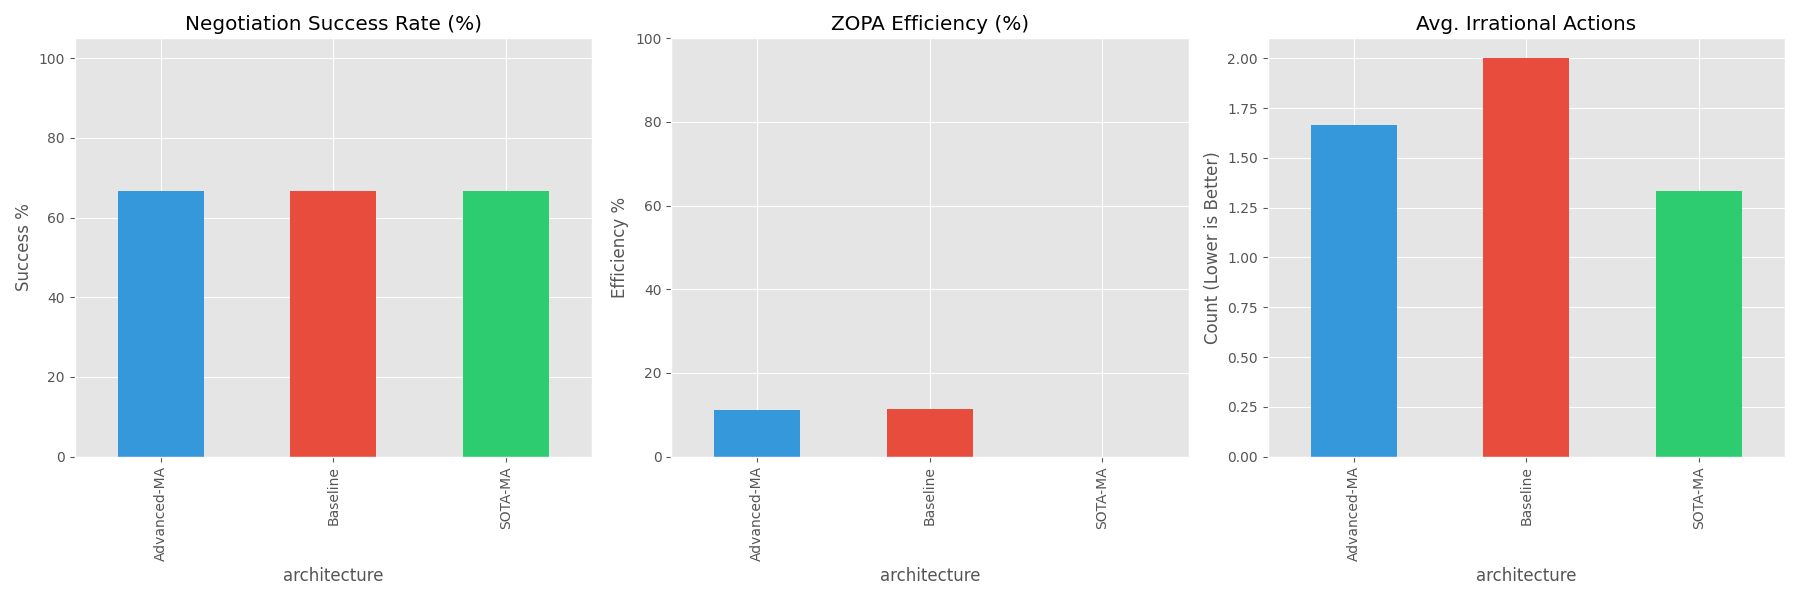
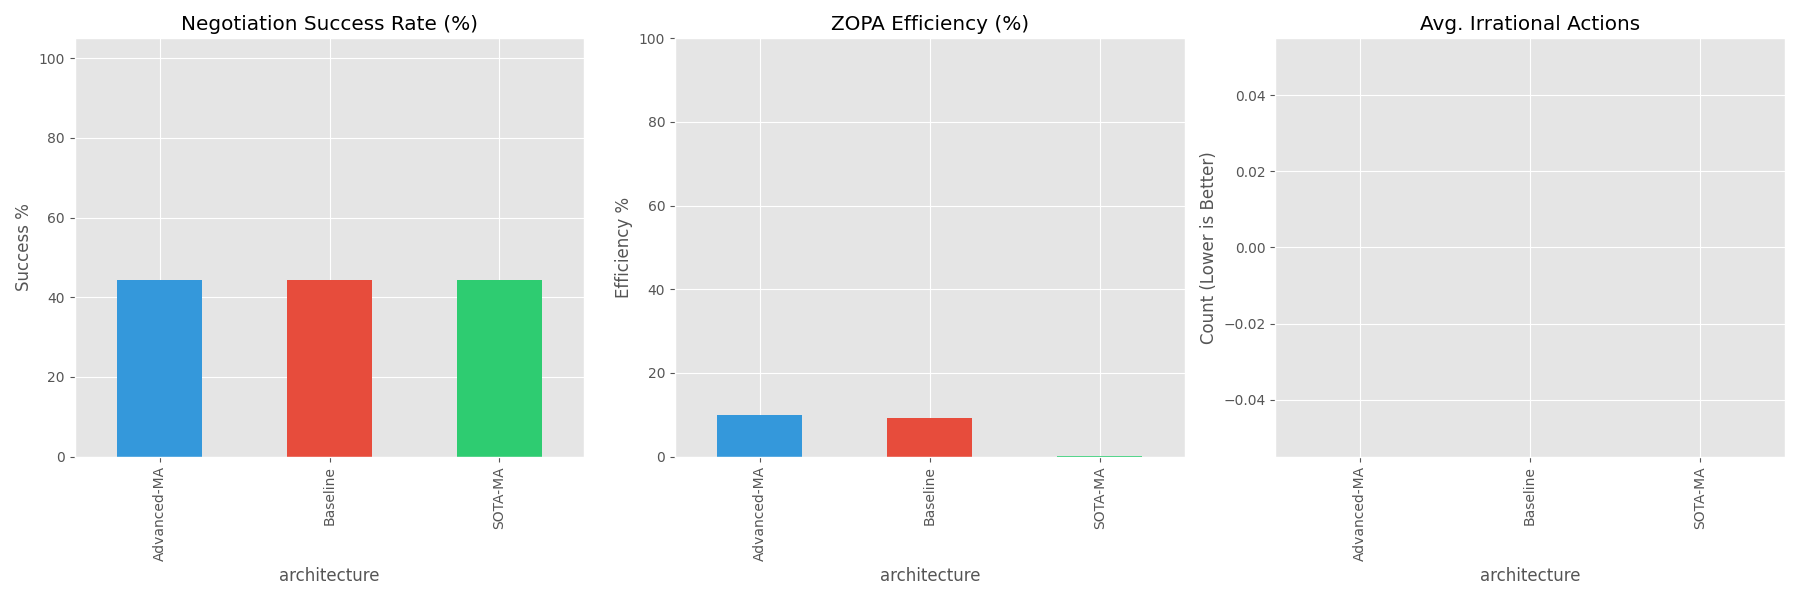
Added Adversarial and Assymmetric

diff --git a/agentic_market_dynamics.py b/agentic_market_dynamics.py
@@ -136,74 +136,86 @@ class NegotiationSimulator:
 
     def run(self, experiment_type: str = "LLM_Normal") -> Dict[str, Any]:
         budget = self.selling_price * random.uniform(0.95, 1.05)
+        observed_expiry = self.true_expiry
+        
+        # --- Restore Environment Logic ---
+        if experiment_type == "Asymmetric_Info":
+            # Buyer thinks it's fresher than it is
+            observed_expiry = self.true_expiry + random.randint(3, 7)
+        
         status, final_price = "NO_DEAL", 0.0
         
-        # Initialize history with the seller's listing price
-        self.history.append({"role": "assistant", "content": f"SELLER: I am listing this {self.product_data['product_name']} for ${self.selling_price:.2f}"})
-        last_seller_offer = self.selling_price
+        # Correct Sequencing: Always start with User if the first message is from Buyer, 
+        # or handle Assistant listing carefully. 
+        # NVIDIA/Llama requirement: user, assistant, user, assistant...
+        self.history.append({"role": "user", "content": f"System: A new {self.product_data['product_name']} is listed for ${self.selling_price:.2f}."})
 
         for rnd in range(1, MAX_ROUNDS + 1):
+            # --- Perishability Check ---
+            # If (current_round + transit) > true_expiry, the goods spoil before reaching the buyer
+            if (rnd + self.transit_time) > self.true_expiry:
+                status = "SPOILED_IN_TRANSIT"
+                break
+
             # --- BUYER TURN ---
-            time.sleep(15) # Global turn throttle
+            time.sleep(15)
+            buyer_strategy_prompt = "Negotiate hard to maximize utility."
+            if experiment_type == "Adversarial":
+                buyer_strategy_prompt = "Be extremely aggressive. Lowball and threaten to walk away."
+
             buyer_prompt = f"""
-            Role: Expert Buyer of Perishable Goods.
-            Context: You want to buy {self.product_data['product_name']}. 
-            Constraints:
-            - Absolute Max Budget: ${budget:.2f}
-            - Observed Expiry: {self.true_expiry} days
-            Goal: Maximize utility by purchasing as low as possible below your budget.
-            Current Round: {rnd}/{MAX_ROUNDS}
-            
-            Action Rules:
-            1. OFFER: Propose a counter-price.
-            2. ACCEPT: Only if current seller price (${last_seller_offer:.2f}) <= ${budget:.2f}.
-            3. WALK_AWAY: If you believe no deal is possible.
-            
-            Respond ONLY in JSON:
-            {{"thought": "reasoning", "action": "OFFER|ACCEPT|WALK_AWAY", "price": float, "message": "string"}}
+            Role: Expert Buyer.
+            Budget: ${budget:.2f}. Strategy: {buyer_strategy_prompt}.
+            Observed Expiry: {observed_expiry} days. Transit Time: {self.transit_time} days.
+            Round: {rnd}/{MAX_ROUNDS}.
+            Respond ONLY in JSON: {{"thought": "...", "action": "OFFER|ACCEPT|WALK_AWAY", "price": float, "message": "..."}}
             """
+            
             b_act = call_nvidia_api(self.buyer_model, [{"role": "system", "content": buyer_prompt}] + self.history)
             
             if b_act.get("action") == "ACCEPT":
-                status, final_price = "DEAL", last_seller_offer
-                break
+                # Check if last seller offer was within budget
+                last_seller_offer = self._get_last_price("assistant")
+                if last_seller_offer <= budget:
+                    status, final_price = "DEAL", last_seller_offer
+                    break
             elif b_act.get("action") == "WALK_AWAY":
                 status = "WALK_AWAY_BUYER"; break
             
-            last_buyer_offer = b_act.get("price", last_seller_offer * 0.8)
-            if last_buyer_offer > budget: self.irrational_acts += 1
-            self.history.append({"role": "user", "content": f"BUYER: {b_act.get('message', 'My offer')} (${last_buyer_offer:.2f})"})
+            price_offer = b_act.get("price", 0)
+            self.history.append({"role": "assistant", "content": f"BUYER OFFER: {b_act.get('message', '')} (${price_offer:.2f})"})
 
             # --- SELLER TURN (Multi-Agent) ---
-            # 1. Manager analyzes and updates strategy
-            time.sleep(15) # Global turn throttle
-            manager_strategy = self._call_manager(rnd, last_buyer_offer)
+            time.sleep(15)
+            # Manager sees TRUE data
+            manager_strategy = self._call_manager(rnd, price_offer)
             
-            # 2. Negotiator executes
-            time.sleep(15) # Global turn throttle
+            time.sleep(15)
             negotiator_prompt = f"""
-            Role: Expert Sales Negotiator.
-            Strategic Directive from Manager: {manager_strategy}
-            Round: {rnd}/{MAX_ROUNDS}
-            The buyer just offered ${last_buyer_offer:.2f}.
-            
-            Respond ONLY in JSON:
-            {{"thought": "reasoning", "action": "OFFER|ACCEPT|WALK_AWAY", "price": float, "message": "string"}}
+            Role: Sales Negotiator. Strategy: {manager_strategy}.
+            Round: {rnd}/{MAX_ROUNDS}.
+            Respond ONLY in JSON: {{"thought": "...", "action": "OFFER|ACCEPT|WALK_AWAY", "price": float, "message": "..."}}
             """
             s_act = call_nvidia_api(self.negotiator_model, [{"role": "system", "content": negotiator_prompt}] + self.history)
             
             if s_act.get("action") == "ACCEPT":
-                status, final_price = "DEAL", last_buyer_offer
-                break
+                if price_offer >= (self.seller_cost_price + (rnd * self.holding_cost)):
+                    status, final_price = "DEAL", price_offer
+                    break
             elif s_act.get("action") == "WALK_AWAY":
                 status = "WALK_AWAY_SELLER"; break
                 
-            last_seller_offer = s_act.get("price", last_buyer_offer * 1.2)
-            floor = self.seller_cost_price + (rnd * self.holding_cost)
-            if last_seller_offer < floor: self.irrational_acts += 1
-            self.history.append({"role": "assistant", "content": f"SELLER: {s_act.get('message', 'My counter')} (${last_seller_offer:.2f})"})
+            last_seller_price = s_act.get("price", self.selling_price)
+            self.history.append({"role": "user", "content": f"SELLER OFFER: {s_act.get('message', '')} (${last_seller_price:.2f})"})
 
         return self._finalize_metrics(status, final_price, rnd, experiment_type, budget, self.seller_cost_price)
+
+    def _get_last_price(self, role: str) -> float:
+        for msg in reversed(self.history):
+            if msg["role"] == role:
+                match = re.search(r'\$(\d+\.?\d*)', msg["content"])
+                if match: return float(match.group(1))
+        return self.selling_price
 
     def _call_manager(self, rnd: int, last_buyer_offer: Optional[float]) -> str:
         current_floor = self.seller_cost_price + (rnd * self.holding_cost)
@@ -306,11 +318,12 @@ def analyze_and_conclude(df: pd.DataFrame):
 
 def main():
     print("Starting Multi-Model Multi-Agent Research Simulation...")
-    print(f"Tracking {len(ARCHITECTURES)} Architectures across {SIMULATION_RUNS_PER_ARCH} runs each.")
+    # Experiments to run
+    experiments = ["LLM_Normal", "Asymmetric_Info", "Adversarial"]
     
     try:
         df_prod = pd.read_csv("perishable_goods_management.csv")
-        # Ensure we have enough products for the requested runs
+        # Sample products
         products = df_prod[df_prod['days_until_expiry'] >= 5].sample(SIMULATION_RUNS_PER_ARCH)
     except Exception as e:
         print(f"Data Load Error: {e}")
@@ -319,14 +332,13 @@ def main():
     results = []
     
     for _, product in products.iterrows():
-        for arch_name, arch_config in ARCHITECTURES.items():
-            print(f"Testing Architecture: {arch_name} | Product: {product['product_name']}")
-            sim = NegotiationSimulator(product.to_dict(), arch_name, arch_config)
-            # We focus on the core "LLM_Normal" mode for architectural comparison
-            res = sim.run("Multi_Agent_Standard")
-            results.append(res)
-            # Sleep to respect rate limits between model swaps
-            time.sleep(2)
+        for exp in experiments:
+            for arch_name, arch_config in ARCHITECTURES.items():
+                print(f"Testing: {exp} | Arch: {arch_name} | Product: {product['product_name']}")
+                sim = NegotiationSimulator(product.to_dict(), arch_name, arch_config)
+                res = sim.run(exp)
+                results.append(res)
+                time.sleep(5)
 
     final_df = pd.DataFrame(results)
     final_df.to_csv("multi_model_research_results.csv", index=False)
